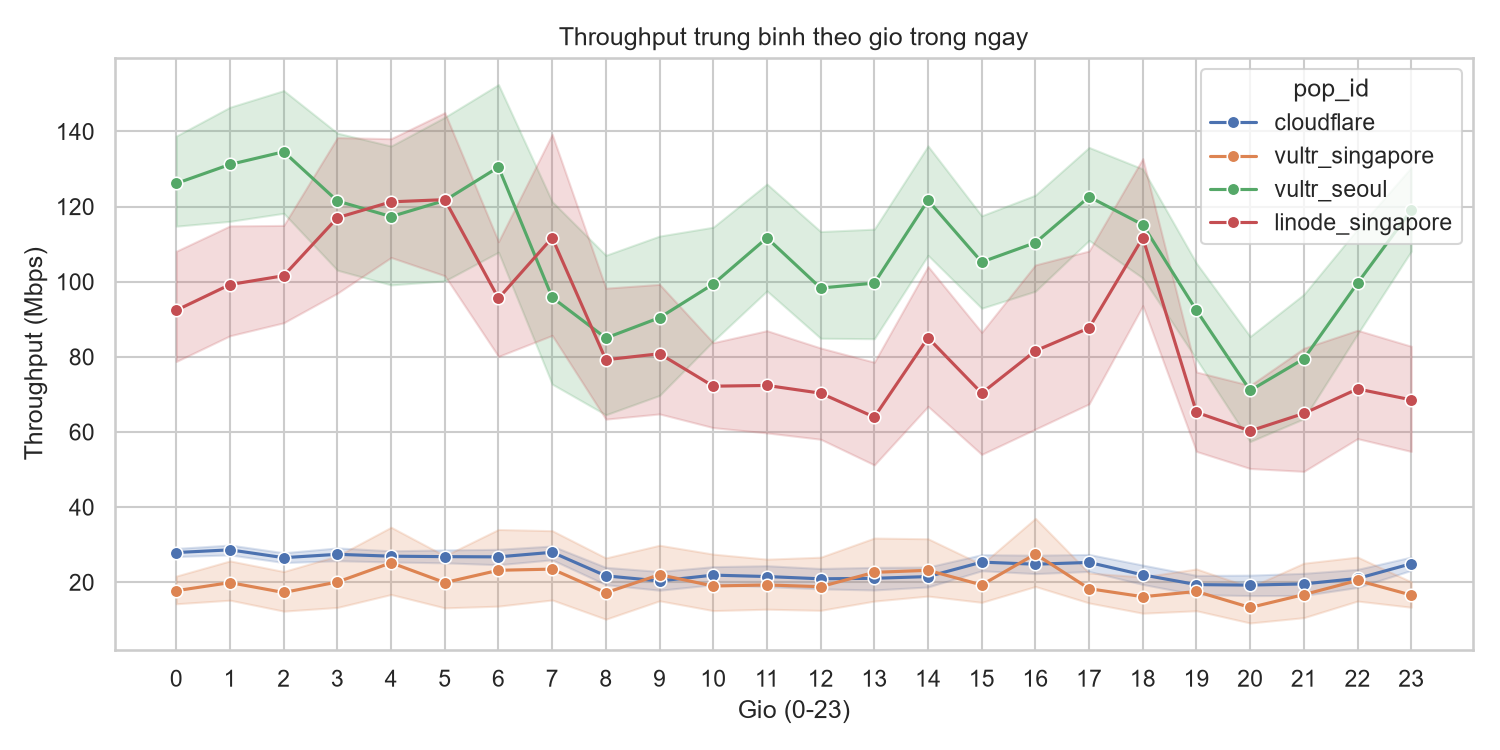
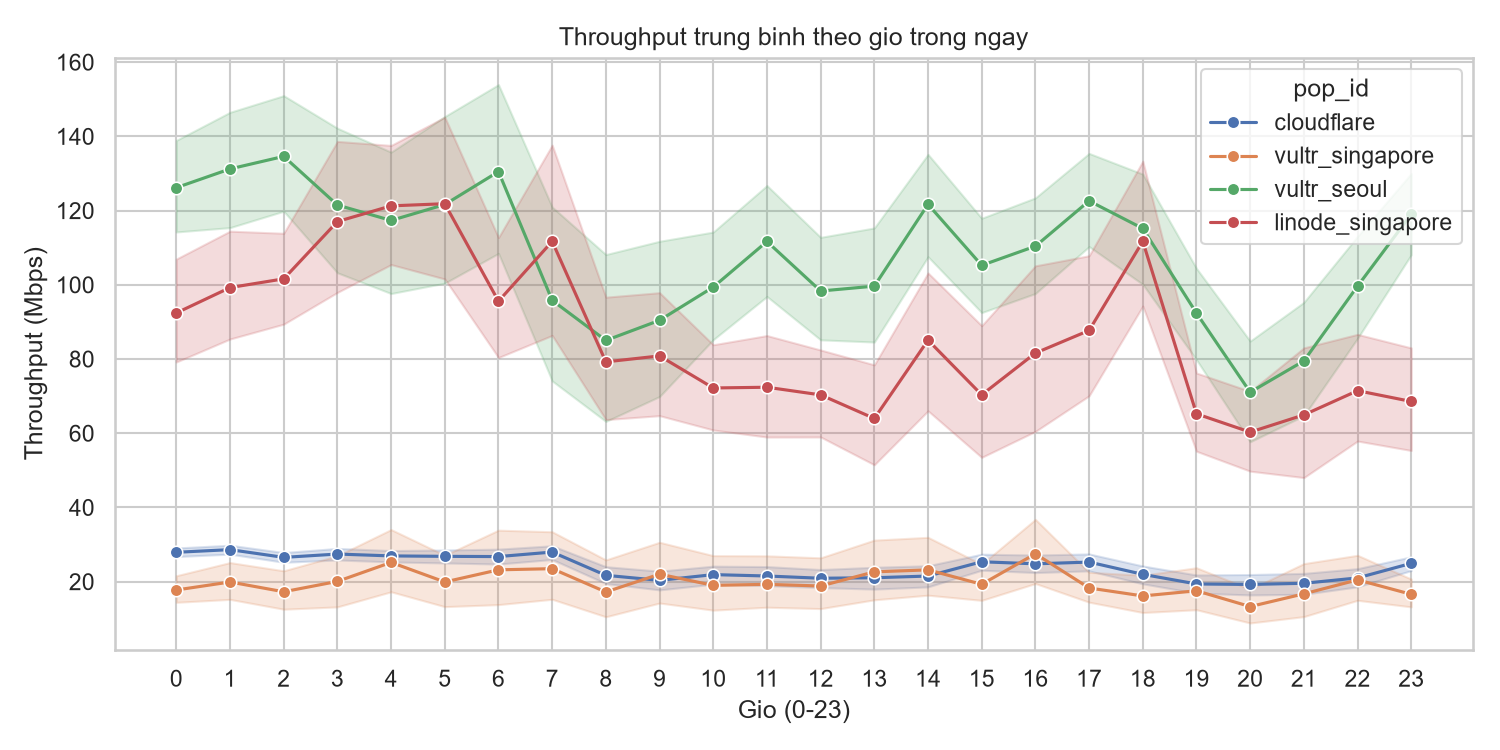
update eda.py

diff --git a/analysis/eda.py b/analysis/eda.py
@@ -72,7 +72,7 @@ def ve_bieu_do():
     plt.close()
     print(f"Da luu {duong_dan}")
 
-        # 5. Throughput theo gio trong ngay
+    # 5. Throughput theo gio trong ngay
     plt.figure(figsize=(10, 5))
     sns.lineplot(data=df, x="gio", y="throughput_mbps", hue="pop_id", errorbar=("ci", 95), marker="o")
     plt.title("Throughput trung binh theo gio trong ngay")
@@ -84,6 +84,21 @@ def ve_bieu_do():
     plt.savefig(duong_dan, dpi=150)
     plt.close()
     print(f"Da luu {duong_dan}")
+
+    # 6. Tuong quan giua latency va throughput
+    plt.figure(figsize=(8, 6))
+    sns.scatterplot(data=df, x="latency_ms", y="throughput_mbps", hue="pop_id", alpha=0.6)
+    plt.title("Tuong quan giua latency va throughput")
+    plt.xlabel("Latency (ms)")
+    plt.ylabel("Throughput (Mbps)")
+    plt.tight_layout()
+    duong_dan = os.path.join(THU_MUC_RA, "06_tuong_quan_latency_throughput.png")
+    plt.savefig(duong_dan, dpi=150)
+    plt.close()
+    print(f"Da luu {duong_dan}")
+
+    he_so_tuong_quan = df["latency_ms"].corr(df["throughput_mbps"])
+    print(f"He so tuong quan Pearson (latency vs throughput): {he_so_tuong_quan:.3f}")
 
     print("\nThong ke nhanh latency theo PoP:")
     print(df.groupby("pop_id")["latency_ms"].describe()[["count", "mean", "50%", "std"]].round(1))
